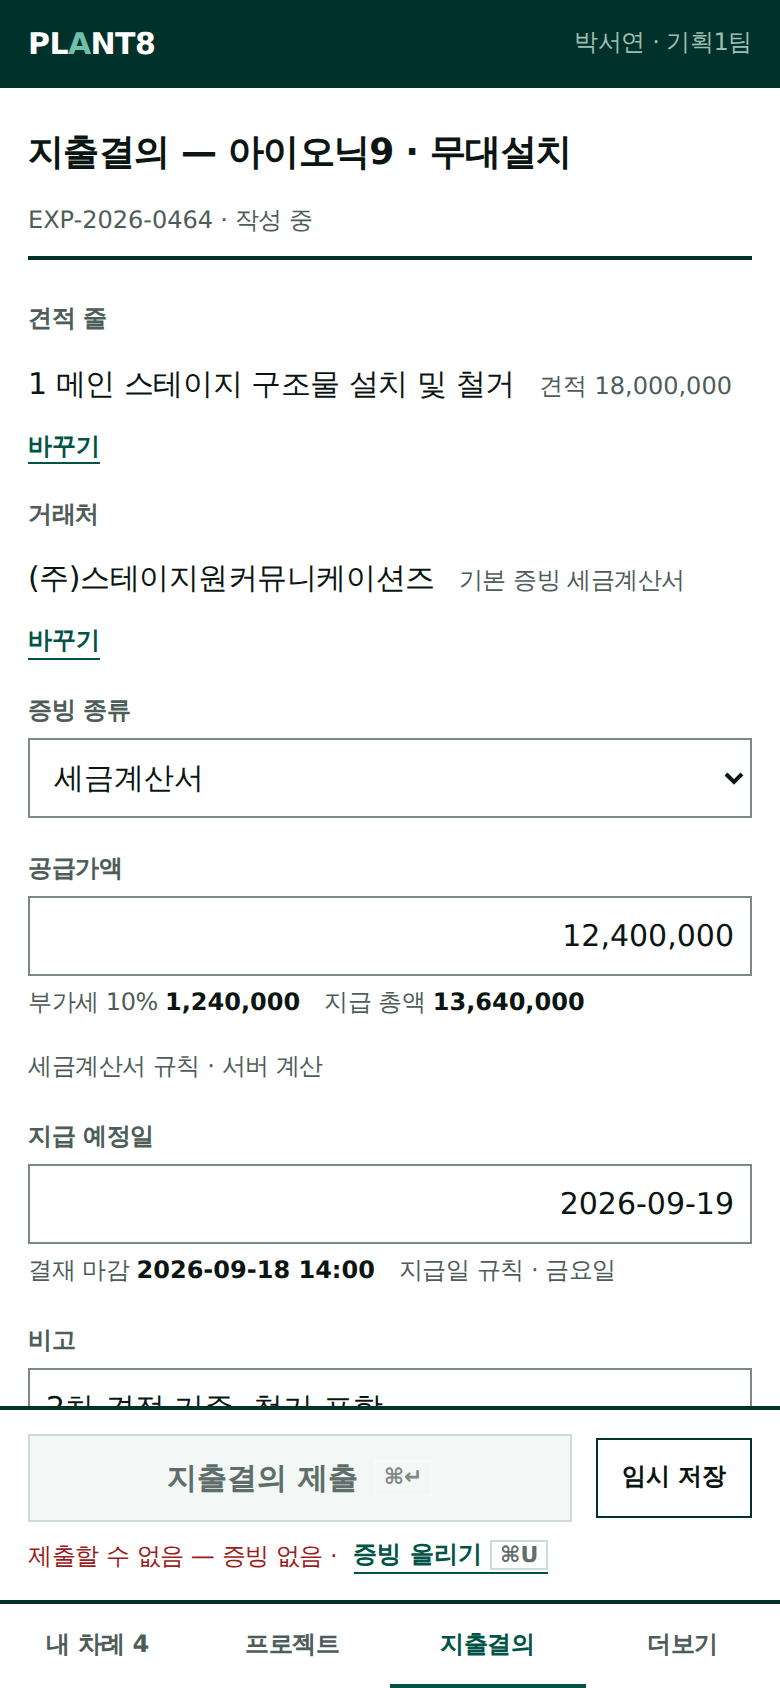
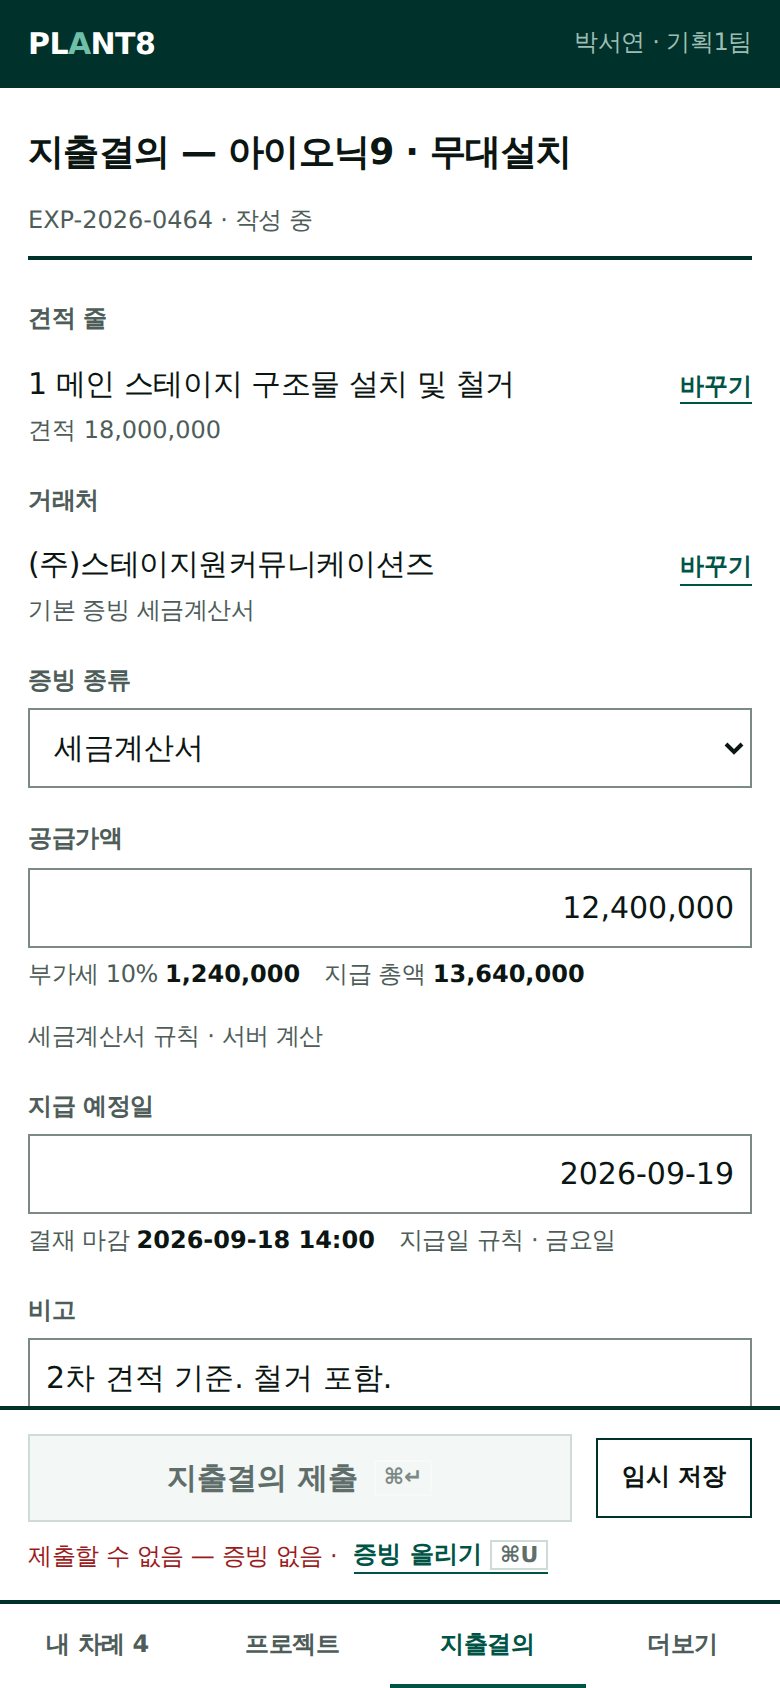
docs: 폼 실물 구도 다듬기 3건 — 사용자 「후」 답 대기
C-1 폼은 구조 확정(2026-09-18). 「더 예쁘게」 요청에 따라 토큰 안에서 구도만:
- 머리 줄을 폼 열(720)에 맞춰 「인쇄」가 제목 괘선 끝에 선다
- 칸 폭 두 가지만: 짧은 칸 280 · 긴 칸(비고·첨부·파일) 열 전체
- 폰 자동 채움 칸: 「바꾸기」는 값 줄 오른쪽, 부제는 아래 한 줄
전·후 보드 https://claude.ai/artifact/Ts4ScSj1hD2AiiWD17Evkc
사용자가 「전」을 고르면 이 커밋을 되돌린다.

Claude-Session: https://claude.ai/code/session_01MwoSZSUG1tWADvG16RK3Ss

diff --git a/docs/design/system/form-expense.html b/docs/design/system/form-expense.html
@@ -33,7 +33,7 @@ kbd{font:inherit;font-size:var(--fs-xs);border:var(--line-w) solid var(--line);p
 .progress{height:2px;background:var(--accent);width:100%;position:sticky;top:38px;z-index:var(--z-bar);display:none}
 main{padding:var(--s-5) var(--pad-page) 96px;max-width:var(--container-max)}
 
-.sec{display:flex;align-items:baseline;gap:var(--s-3);flex-wrap:wrap;padding-bottom:var(--s-2)}
+.sec{display:flex;align-items:baseline;gap:var(--s-3);flex-wrap:wrap;padding-bottom:var(--s-2);max-width:var(--form-max)}
 .sec h1{font-size:var(--fs-lg);font-weight:var(--fw-bold);letter-spacing:var(--ls-head);line-height:var(--lh-head)}
 .sec .sub{font-size:var(--fs-sm);color:var(--muted)}
 .sec .right{margin-left:auto;display:flex;gap:var(--s-2)}
@@ -56,7 +56,7 @@ main{padding:var(--s-5) var(--pad-page) 96px;max-width:var(--container-max)}
 .inp.num{text-align:right}
 .inp.err{border-color:var(--danger)}
 .inp::placeholder{color:var(--faint)}
-select.inp{max-width:200px}
+select.inp{max-width:280px}
 .ferr{font-size:var(--fs-sm);color:var(--danger);margin-top:var(--s-1)}
 .calc{font-size:var(--fs-sm);color:var(--muted);margin-top:var(--s-1);display:flex;gap:var(--s-3);flex-wrap:wrap}
 .calc b{color:var(--fg);font-weight:var(--fw-bold)}
@@ -67,8 +67,8 @@ select.inp{max-width:200px}
 .hint{font-size:var(--fs-sm);color:var(--muted);padding-top:7px}
 
 /* 첨부 (§7-10) */
-.drop{background:var(--surface);border:var(--line-w) dashed var(--line-ui);height:96px;display:flex;align-items:center;justify-content:center;font-size:var(--fs-sm);color:var(--muted);max-width:480px;gap:var(--s-1)}
-.files{list-style:none;max-width:480px}
+.drop{background:var(--surface);border:var(--line-w) dashed var(--line-ui);height:96px;display:flex;align-items:center;justify-content:center;font-size:var(--fs-sm);color:var(--muted);gap:var(--s-1)}
+.files{list-style:none}
 .files li{display:flex;align-items:center;gap:var(--s-3);padding:6px 0;border-bottom:var(--line-w) solid var(--line);font-size:var(--fs-sm)}
 .files .th{width:48px;height:48px;background:var(--surface);border:var(--line-w) solid var(--line-ui);flex:none;position:relative;overflow:hidden}
 .files .th i{position:absolute;left:8px;right:8px;height:2px;background:var(--line-ui);opacity:.55}
@@ -109,6 +109,10 @@ body[data-scene="done"] .inp,body[data-scene="done"] select{pointer-events:none}
   .row label,.row .lbl,.hint{padding-top:0}
   .inp,select.inp{max-width:none}
   .drop{height:72px}
+  .ro{display:grid;grid-template-columns:1fr auto;gap:2px var(--s-3);align-items:baseline}
+  .ro>span:first-child{grid-row:1;grid-column:1}
+  .ro .b3{grid-row:1;grid-column:2;justify-self:end}
+  .ro .sub{grid-row:2;grid-column:1/-1}
   .sec .right{display:none}
   .submit{position:fixed;left:0;right:0;bottom:var(--touch-min);background:var(--bg);margin:0;padding:var(--s-3) var(--pad-page);border-top:var(--line-w-strong) solid var(--line-strong);z-index:var(--z-bar);max-width:none;gap:var(--s-2) var(--s-3)}
   .submit .btn.p{order:-1;flex:1;justify-content:center;height:var(--touch-min);font-size:var(--fs-base)}
@@ -148,7 +152,7 @@ body[data-scene="done"] .inp,body[data-scene="done"] select{pointer-events:none}
       <input id="due-e" class="inp num err s-error" value="2026/9/19" aria-invalid="true" aria-describedby="due-why">
       <div class="ferr s-error" id="due-why">날짜 형식이 아닙니다 · 2026-09-19처럼 적어 주세요</div>
       <div class="calc"><span>결재 마감 <b class="num">2026-09-18 14:00</b></span><span>지급일 규칙 · 금요일</span></div></div></div>
-    <div class="row"><label for="memo">비고</label><div><input id="memo" class="inp" value="2차 견적 기준. 철거 포함." style="max-width:480px"></div></div>
+    <div class="row"><label for="memo">비고</label><div><input id="memo" class="inp" value="2차 견적 기준. 철거 포함." style="max-width:none"></div></div>
 
     <div class="sep"></div>
 
